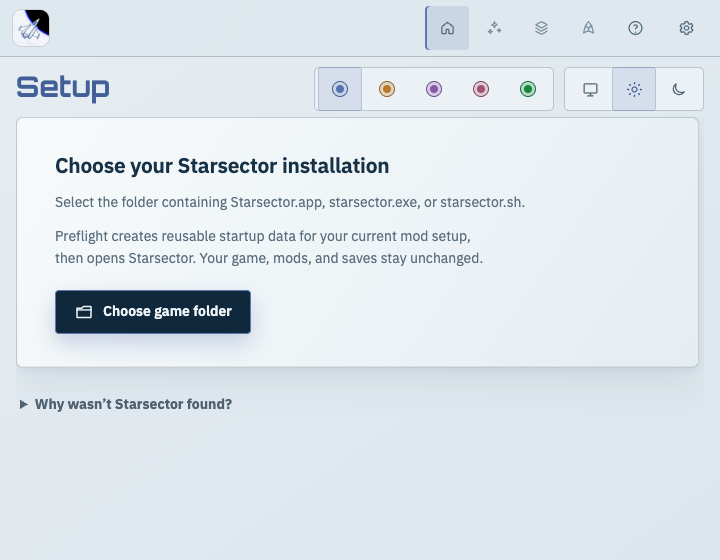
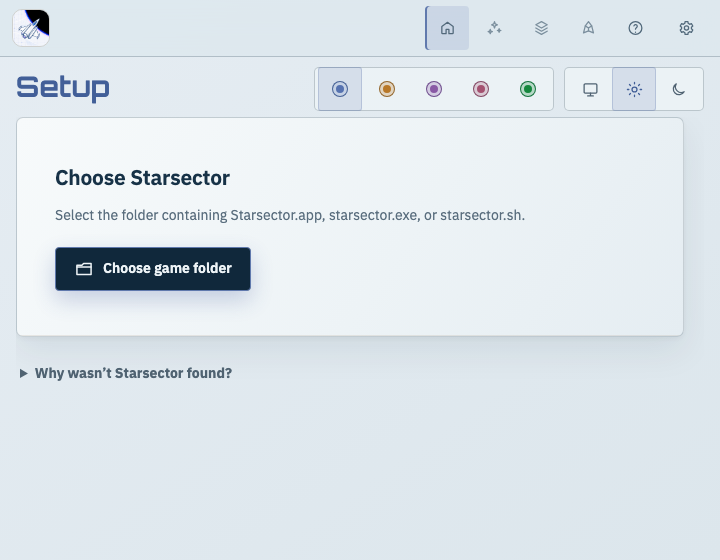
Refresh canonical screenshots after UI polish

Changed region(s): [[0.0306, 0.2732, 0.9472, 0.7286]]

diff --git a/scripts/verify_source_boundary.py b/scripts/verify_source_boundary.py
@@ -38,6 +38,7 @@ REVIEWED_DOCUMENTATION_IMAGES = {
             (56_247, "ca01e532a00e804e5cca00c6f85028ab81b0fbdb"),
             (311_930, "cc60150e4eab29122b717b3dc2c3cbcbdd239111"),
             (276_824, "f1d0360b221694c0fc233c31fe5b1e2fa28d2800"),
+            (330_112, "be8130c24b2552eff4525e11df2ae395f65e2aa6"),
         }
     ),
     "docs/images/desktop-home-light.png": frozenset(
@@ -46,6 +47,7 @@ REVIEWED_DOCUMENTATION_IMAGES = {
             (62_880, "a042bb65181efe99c41e2f7132a96f6ec8ca9c4e"),
             (342_496, "fea75bae343a0352cc5ee7d11c60218289645f0e"),
             (225_729, "8e2cd80e328c2a6d00f11ea4df7df6b42017a405"),
+            (271_531, "b37ce69cc922ebf9d056589a111517f4b2a63b9f"),
         }
     ),
     "docs/images/desktop-profiles-light.png": frozenset(
@@ -54,6 +56,7 @@ REVIEWED_DOCUMENTATION_IMAGES = {
             (56_409, "4402dd545b806b5667f442e7370bfa3b3f3f8cf9"),
             (226_973, "056ce6773da636d6d98b261f9b347a7b2a7099e0"),
             (145_567, "7c01323ab0b7f55d6b9387ca674458353f54f225"),
+            (166_216, "16cec8402f5c9ac3d284cf8e7779d7e03fa1f7ac"),
         }
     ),
     "docs/images/walkthrough-benchmark.png": frozenset(
@@ -62,6 +65,7 @@ REVIEWED_DOCUMENTATION_IMAGES = {
             (56_508, "b36aa4e523f1f850179093388f5ea38a18deb066"),
             (231_566, "304629870fc89b19b0a913efa70df4beb131c7be"),
             (135_908, "3cc5d7a2a7fcf7d6054040dc64e067a6380f710c"),
+            (152_308, "8745d6436fbfce9432ee3f2a2c37bc2a35480f84"),
         }
     ),
     "docs/images/walkthrough-ready.png": frozenset(
@@ -71,6 +75,7 @@ REVIEWED_DOCUMENTATION_IMAGES = {
             (213_139, "57e61befeba4174c4ef2dd5a454623248200cbfa"),
             (125_297, "7d87378f447f9e9532ef214d1d636280199e0922"),
             (126_779, "0448bd1d2daad5dd90496dfe80a406c59dd434e4"),
+            (178_803, "252e5c87318f8966de92b994b7ba955074263f4c"),
         }
     ),
     "docs/images/walkthrough-setup.png": frozenset(
@@ -79,6 +84,7 @@ REVIEWED_DOCUMENTATION_IMAGES = {
             (49_295, "2922b4b63d94ac7a3f1eaca5adc886914199deb1"),
             (188_622, "c606b45a65933bb5ff35dc792bbd19ccc80936d3"),
             (124_928, "44c2f93da0cf6846cb6325b41c402fcbc565df92"),
+            (128_919, "0fff54c587604aea528cad0d1c61248fac5fc8cd"),
         }
     ),
 }

diff --git a/preflight-desktop/scripts/capture-doc-screenshots.py b/preflight-desktop/scripts/capture-doc-screenshots.py
@@ -149,8 +149,11 @@ def main() -> int:
                 browser, args.base_url, width=1040, height=700, theme="light"
             )
             page.get_by_role("button", name="Mods").click()
-            page.get_by_role("heading", name="Mods").wait_for()
-            page.get_by_text("Main campaign").wait_for()
+            # React Activity retains the hidden Home tree, which carries the same profile name.
+            # Bind the readiness check to the visible destination instead of a duplicated page-wide
+            # string so a retained page cannot make the strict locator ambiguous.
+            mods_page = page.locator(".profiles-page:visible")
+            mods_page.get_by_text("Main campaign", exact=True).wait_for()
             page.wait_for_timeout(100)
             capture(page, output_dir / "desktop-profiles-light.png")
             assert_clean(errors, "Mods/profile view")

diff --git a/docs/evidence/2026-08-25-canonical-ui-screenshots.md b/docs/evidence/2026-08-25-canonical-ui-screenshots.md
@@ -1,0 +1,51 @@
+# Canonical UI screenshots: 2026-08-25
+
+This note binds the six public screenshots to accepted `main` after the first-launch, Home, Hangar,
+recovery, and support-copy polish through #1133.
+
+## Accepted frontend source
+
+- accepted `main`: `9ef75b37fcf10c76676b702089787bc2f555e542`;
+- accepted tree: `eaa8d8aee8171b39343086e79effac4e4de15d2c`;
+- accepted `preflight-desktop` subtree: `58c3b5ed3d49ba7eb3dd5cf35d8b73a3eacbed68`.
+
+The frontend was built in a detached worktree at that exact accepted revision. The repository capture
+helper then drove its preview with the pinned Playwright 1.55 / Chromium environment. This local
+documentation capture does not claim a hosted artifact or candidate-package identity.
+
+React Activity now retains the hidden Home tree after navigation. The first capture attempt exposed
+an ambiguous page-wide `Main campaign` locator on the Mods page; the helper now binds that readiness
+check to the visible `.profiles-page` before taking the screenshot.
+
+## Canonical capture set
+
+| Image | State | Window | Theme |
+| --- | --- | --- | --- |
+| `docs/images/desktop-home-light.png` | settled Home | 1040×700 | Blueprint / light |
+| `docs/images/desktop-home-dark.png` | settled Home | 1040×700 | Blueprint / dark |
+| `docs/images/desktop-profiles-light.png` | Mods / saved profiles | 1040×700 | Blueprint / light |
+| `docs/images/walkthrough-setup.png` | no installation selected | 720×560 | Blueprint / light |
+| `docs/images/walkthrough-ready.png` | settled Home | 720×560 | Blueprint / light |
+| `docs/images/walkthrough-benchmark.png` | Benchmark before a run | 1040×700 | Blueprint / light |
+
+The browser context fixes locale, timezone, theme, palette, device scale, and reduced motion. It
+waits for the destination controls, rejects page and console errors, and captures only the viewport.
+Chromium's implicit `/favicon.ico` request is answered inside the capture context because the
+packaged Tauri frontend neither requests nor ships a browser favicon. Product resource errors still
+fail the capture.
+
+## Captured image identities
+
+| Image | Pixels | Bytes | SHA-256 |
+| --- | ---: | ---: | --- |
[6 lines of base64/hex data omitted]
+
+All six images were inspected at original resolution. They contain the current Home composition and
+launcher, icon-based visibility controls, saved-profile view, compact setup and Ready states, and
+pre-run benchmark layout. The two minimum-window captures remain contained at 720×560, and the
+capture completed without page or console errors.

diff --git a/docs/release-readiness.md b/docs/release-readiness.md
@@ -2,7 +2,7 @@
 
 **Status:** operational candidate execution; source and rendered-UI convergence complete
 
-**Updated:** 2026-08-23
+**Updated:** 2026-08-25
 
 This page mirrors the current beta gate. The live owner for blocker status, freeze order, collision
 control, and any promotion caused by a demonstrated candidate failure or explicit maintainer decision
@@ -40,14 +40,14 @@ must stay tied to one accepted candidate generation:
   ZIP, cancel after a partial upload, prove remote cleanup while the local ZIP remains, retry the same
   ZIP, verify the accepted size/SHA and retained receipt, then delete it and prove cleanup.
 
-Release-facing maintenance through #1119 landed after the completed private rehearsals. Startup
+Release-facing maintenance through #1123 landed after the completed private rehearsals. Startup
 entry points are consolidated, Compact is the normal prepared texture layout, redundant child-JVM
 work is removed, benchmark shutdown targets the exact game process, and patched `time` and
 `serde_with` dependencies build at the verified Rust 1.88 floor across all three hosted package
 jobs. Failed-run support is manual: players review and explicitly send a support ZIP, automatic
 failed-run upload is absent from the native command surface, and the public capability receipt says
-so. Home now exposes its time, ship, motion, installation, support, and saved-profile controls
-directly, and the canonical public screenshots match the accepted responsive layout. A bounded
+so. First-launch, Home, Hangar, recovery, and support-copy polish through #1133 is accepted, and the
+canonical public screenshots now match that responsive layout. A bounded
 dependency check runs automatically for the active mod setup, while Mods offers the deeper explicit
 analysis. Page navigation commits before destination work, and repeated visits reuse optional
 native reads instead of requesting them again. Desktop-only changes no longer duplicate
@@ -106,7 +106,7 @@ The detailed evidence remains in the linked documents and dated `docs/evidence/`
 Useful current references:
 
 - [Startup benchmark](startup-benchmark.md)
-- [Canonical UI screenshots](evidence/2026-08-24-canonical-ui-screenshots.md)
+- [Canonical UI screenshots](evidence/2026-08-25-canonical-ui-screenshots.md)
 - [Cross-platform evidence plan](cross-platform-evidence-plan.md)
 - [Package lifecycle rehearsal](package-lifecycle-rehearsal.md)
 - [Packaged report canary](evidence/2026-08-08-packaged-report-canary.md)
